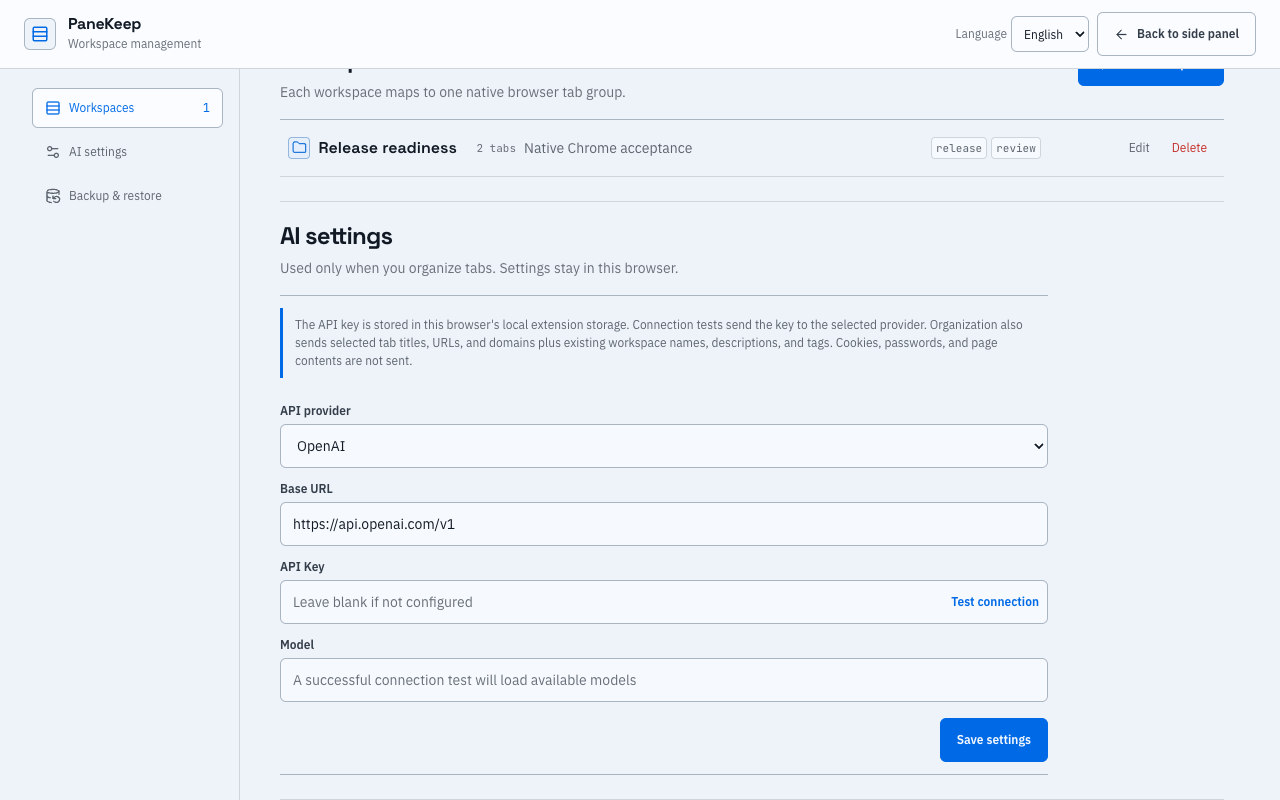
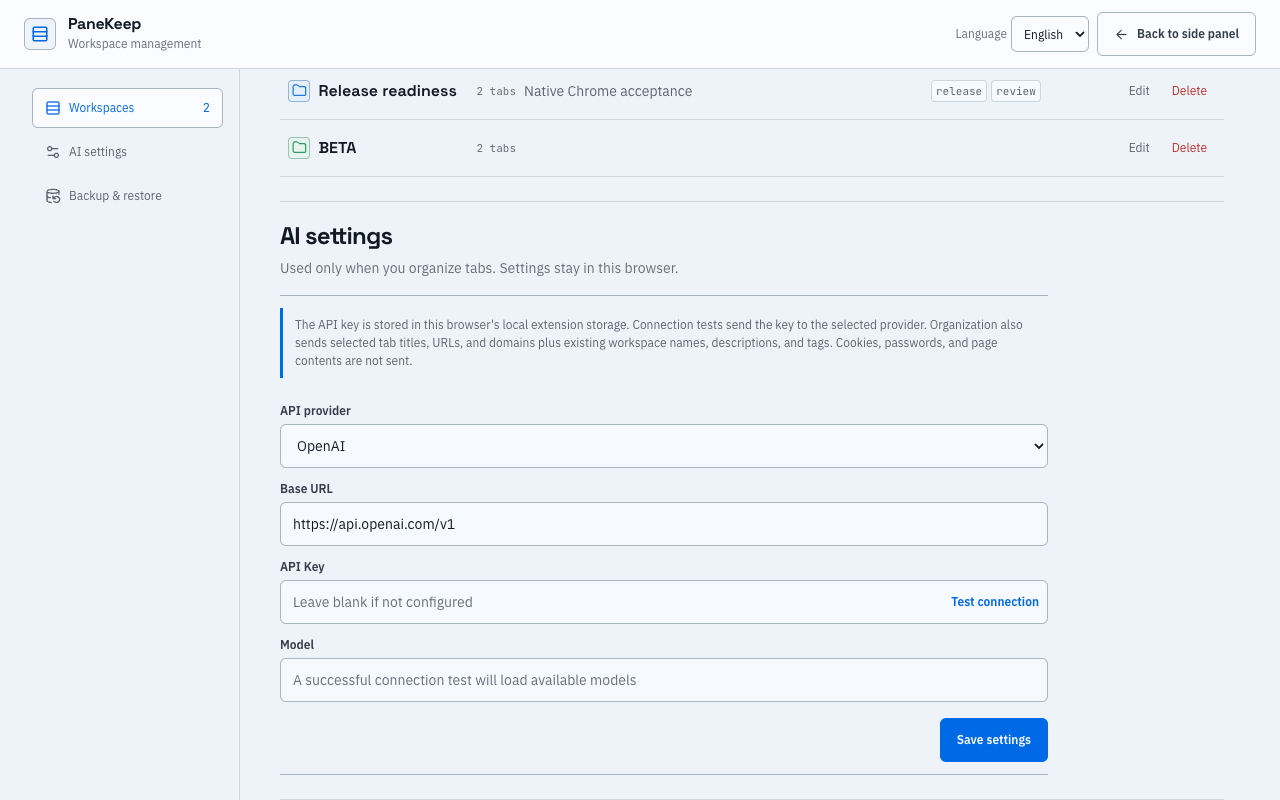
fix: keep native group moves on valid boundaries

diff --git a/src/browser/stateEngine.ts b/src/browser/stateEngine.ts
@@ -405,6 +405,7 @@ export class BrowserStateEngine {
   async moveWorkspace(workspaceId: string, beforeWorkspaceId?: string): Promise<void> {
     const source = this.state.workspaces.find((workspace) => workspace.id === workspaceId);
     if (!source) return;
+    if (beforeWorkspaceId === source.id) return;
     const requestedBefore = beforeWorkspaceId
       ? this.state.workspaces.find((workspace) => workspace.id === beforeWorkspaceId && workspace.windowKey === source.windowKey)
       : undefined;
@@ -415,24 +416,38 @@ export class BrowserStateEngine {
       ? siblings.findIndex((workspace) => workspace.id === requestedBefore.id)
       : siblings.length;
     const insertAt = beforeIndex < 0 ? siblings.length : beforeIndex;
+    if (this.api && source.groupId !== undefined && this.api.tabGroups?.move && (!requestedBefore || requestedBefore.groupId !== undefined)) {
+      const sourceIndices = this.state.tabs
+        .filter((tab) => tab.groupId === source.groupId && tab.kind === "normal")
+        .map((tab) => tab.index)
+        .sort((left, right) => left - right);
+      const targetIndex = requestedBefore
+        ? this.state.tabs
+          .filter((tab) => tab.groupId === requestedBefore.groupId && tab.kind === "normal")
+          .reduce<number | undefined>((lowest, tab) => lowest === undefined ? tab.index : Math.min(lowest, tab.index), undefined)
+        : undefined;
+      const adjustedIndex = targetIndex !== undefined && sourceIndices.length && sourceIndices[0] < targetIndex
+        ? Math.max(0, targetIndex - sourceIndices.length)
+        : targetIndex;
+      try {
+        await invokeBrowser(this.api.tabGroups, "move", source.groupId, {
+          index: adjustedIndex ?? -1
+        });
+        await this.syncFromBrowser();
+        return;
+      } catch {
+        // Native order is authoritative. Reconcile instead of leaving an
+        // optimistic local order that the browser rejected.
+        await this.syncFromBrowser();
+        return;
+      }
+    }
+
     siblings.splice(insertAt, 0, source);
     siblings.forEach((workspace, index) => {
       workspace.order = index;
       workspace.updatedAt = this.now();
     });
-
-    if (this.api && source.groupId !== undefined && this.api.tabGroups?.move) {
-      const beforeTab = requestedBefore
-        ? this.state.tabs.find((tab) => tab.workspaceId === requestedBefore.id && tab.kind === "normal")
-        : undefined;
-      try {
-        await invokeBrowser(this.api.tabGroups, "move", source.groupId, {
-          index: beforeTab?.index ?? -1
-        });
-      } catch {
-        // Local ordering remains valid on browsers without tab-group moving.
-      }
-    }
     this.markChanged();
   }
 

diff --git a/tests/browser/state-engine-browser.test.ts b/tests/browser/state-engine-browser.test.ts
@@ -38,6 +38,7 @@ class FakeBrowser {
   readonly removedWindowIds: number[] = [];
   readonly tabUpdates: Array<{ tabId: number; changes: Record<string, unknown> }> = [];
   readonly groupUpdates: Array<{ groupId: number; changes: Record<string, unknown> }> = [];
+  readonly groupMoves: Array<{ groupId: number; index: number }> = [];
   readonly discardedTabIds: number[] = [];
   readonly failCreateUrls = new Set<string>();
   readonly api: BrowserLike;
@@ -185,7 +186,10 @@ class FakeBrowser {
           this.groupUpdates.push({ groupId, changes: { ...changes } });
           return { ...group };
         },
-        move: async () => undefined,
+        move: async (groupId: number, { index }: { index: number }) => {
+          this.groupMoves.push({ groupId, index });
+          return this.groups.find((group) => group.id === groupId);
+        },
         onCreated: event(),
         onRemoved: event(),
         onUpdated: event(),
@@ -209,6 +213,34 @@ function tab(id: number, windowId: number, options: Partial<NativeTab> = {}): Na
 }
 
 describe("BrowserStateEngine with Chromium state", () => {
+  it("adjusts a native group target index after removing an earlier source group", async () => {
+    const fake = new FakeBrowser([{
+      id: 1,
+      type: "normal",
+      focused: true,
+      tabs: [
+        tab(101, 1, { groupId: 10, active: true, index: 0 }),
+        tab(102, 1, { groupId: 10, index: 1 }),
+        tab(103, 1, { groupId: -1, index: 2 }),
+        tab(104, 1, { groupId: 20, index: 3 }),
+        tab(105, 1, { groupId: 20, index: 4 }),
+        tab(106, 1, { groupId: 20, index: 5 })
+      ]
+    }], [
+      { id: 10, windowId: 1, title: "Source", color: "blue" },
+      { id: 20, windowId: 1, title: "Target", color: "green" }
+    ]);
+    const engine = new BrowserStateEngine({ api: fake.api, repository: new MemoryStateRepository(), debounceMs: 0 });
+    await engine.start();
+    const source = engine.getState().workspaces.find((workspace) => workspace.groupId === 10)!;
+    const target = engine.getState().workspaces.find((workspace) => workspace.groupId === 20)!;
+
+    await engine.moveWorkspace(source.id, target.id);
+
+    expect(fake.groupMoves).toEqual([{ groupId: 10, index: 1 }]);
+    await engine.stop();
+  });
+
   it("coalesces concurrent browser syncs and waits for the final reconciliation", async () => {
     const fake = new FakeBrowser([{
       id: 1,

diff --git a/tests/browser/api.test.ts b/tests/browser/api.test.ts
@@ -1,0 +1,25 @@
+import { afterEach, describe, expect, it } from "vitest";
+import { invokeBrowser } from "../../src/browser/api";
+
+const originalChrome = (globalThis as { chrome?: unknown }).chrome;
+
+afterEach(() => {
+  Object.assign(globalThis, { chrome: originalChrome });
+});
+
+describe("browser API invocation", () => {
+  it("reads callback runtime.lastError and rejects without an unchecked Chrome error", async () => {
+    const runtime: { lastError?: { message?: string } } = {};
+    Object.assign(globalThis, { chrome: { runtime } });
+    const owner = {
+      move: (_groupId: number, _details: { index: number }, callback: (value?: unknown) => void) => {
+        runtime.lastError = { message: "Cannot move the group to an index that is in the middle of another group." };
+        callback(undefined);
+        delete runtime.lastError;
+      }
+    };
+
+    await expect(invokeBrowser(owner, "move", 10, { index: 3 }))
+      .rejects.toThrow("Cannot move the group to an index that is in the middle of another group.");
+  });
+});

diff --git a/src/browser/api.ts b/src/browser/api.ts
@@ -51,9 +51,19 @@ export async function invokeBrowser<T>(
       settled = true;
       reject(error);
     };
+    const callback = (value: T): void => {
+      const lastError = (globalThis as typeof globalThis & {
+        chrome?: { runtime?: { lastError?: { message?: string } } };
+      }).chrome?.runtime?.lastError;
+      if (lastError) {
+        fail(new Error(lastError.message || "Browser API call failed"));
+        return;
+      }
+      finish(value);
+    };
 
     try {
-      const result = method.call(owner, ...args, finish);
+      const result = method.call(owner, ...args, callback);
       if (result && typeof result.then === "function") {
         result.then(finish, (error: unknown) => {
           // Some implementations reject when a callback is supplied. Retry

diff --git a/scripts/verify-native-chrome.py b/scripts/verify-native-chrome.py
@@ -124,6 +124,52 @@ def create_native_workspace(page: Page) -> dict:
     )
 
 
+def verify_native_group_reorder(page: Page, source_workspace_id: str) -> dict:
+    return page.evaluate(
+        r"""async (sourceWorkspaceId) => {
+          const tabs = (await chrome.tabs.query({})).filter((tab) => /^https:\/\//.test(tab.url || ""));
+          const stateBefore = (await chrome.runtime.sendMessage({ source: "panekeep-ui", action: "snapshot" }))?.snapshot;
+          const assigned = new Set(stateBefore.tabs.filter((tab) => tab.workspaceId).map((tab) => tab.id));
+          const unclassified = tabs.filter((tab) => !assigned.has(String(tab.id))).sort((left, right) => left.index - right.index);
+          if (unclassified.length < 3) throw new Error(`Expected three unclassified fixture tabs, found ${unclassified.length}`);
+          const targetCreate = await chrome.runtime.sendMessage({
+            type: "panekeep/create-workspace",
+            windowId: unclassified[0].windowId,
+            name: "BETA",
+            color: "green",
+            icon: "folder",
+            tabIds: [String(unclassified[1].id), String(unclassified[2].id)]
+          });
+          await new Promise((resolve) => setTimeout(resolve, 100));
+          const stateAfterCreate = (await chrome.runtime.sendMessage({ source: "panekeep-ui", action: "snapshot" }))?.snapshot;
+          const target = stateAfterCreate?.workspaces.find((workspace) =>
+            workspace.groupId === targetCreate.groupId || workspace.name === "BETA"
+          );
+          if (!target) throw new Error("Target native workspace was not present after creation");
+          const reorder = await chrome.runtime.sendMessage({
+            source: "panekeep-ui",
+            action: "workspace.move",
+            payload: { workspaceId: sourceWorkspaceId, beforeWorkspaceId: target.id }
+          });
+          if (!reorder || reorder.ok === false) throw new Error(reorder?.error || "workspace.move returned no response");
+          const source = reorder.snapshot.workspaces.find((workspace) => workspace.id === sourceWorkspaceId);
+          const refreshedTarget = reorder.snapshot.workspaces.find((workspace) => workspace.id === target.id);
+          const sourceTabs = await chrome.tabs.query({ groupId: source.groupId });
+          const targetTabs = await chrome.tabs.query({ groupId: refreshedTarget.groupId });
+          const sourceStart = Math.min(...sourceTabs.map((tab) => tab.index));
+          const targetStart = Math.min(...targetTabs.map((tab) => tab.index));
+          return {
+            sourceGroupId: source.groupId,
+            targetGroupId: refreshedTarget.groupId,
+            sourceStart,
+            targetStart,
+            orderedBeforeTarget: sourceStart < targetStart
+          };
+        }""",
+        source_workspace_id,
+    )
+
+
 def main() -> None:
     args = parse_args()
     extension = args.extension.resolve()
@@ -149,8 +195,14 @@ def main() -> None:
 
                 first = context.new_page()
                 second = context.new_page()
+                third = context.new_page()
+                fourth = context.new_page()
+                fifth = context.new_page()
                 goto_fixture(first, "https://example.com/?panekeep=research")
                 goto_fixture(second, "https://example.org/?panekeep=release")
+                goto_fixture(third, "https://example.net/?panekeep=ungrouped")
+                goto_fixture(fourth, "https://www.iana.org/domains/reserved?panekeep=beta-one")
+                goto_fixture(fifth, "https://developer.chrome.com/docs/extensions/?panekeep=beta-two")
 
                 manage = context.new_page()
                 attach_diagnostics(manage, diagnostics)
@@ -163,6 +215,9 @@ def main() -> None:
                 assert native["backupProduct"] == "panekeep", native
                 assert native["backupContainsApiKey"] is False, native
                 evidence["nativeWorkspace"] = native
+                reorder = verify_native_group_reorder(manage, native["workspace"]["id"])
+                assert reorder["orderedBeforeTarget"] is True, reorder
+                evidence["nativeGroupReorder"] = reorder
 
                 manage.reload(wait_until="networkidle")
                 manage.get_by_text("发布准备", exact=True).wait_for()
